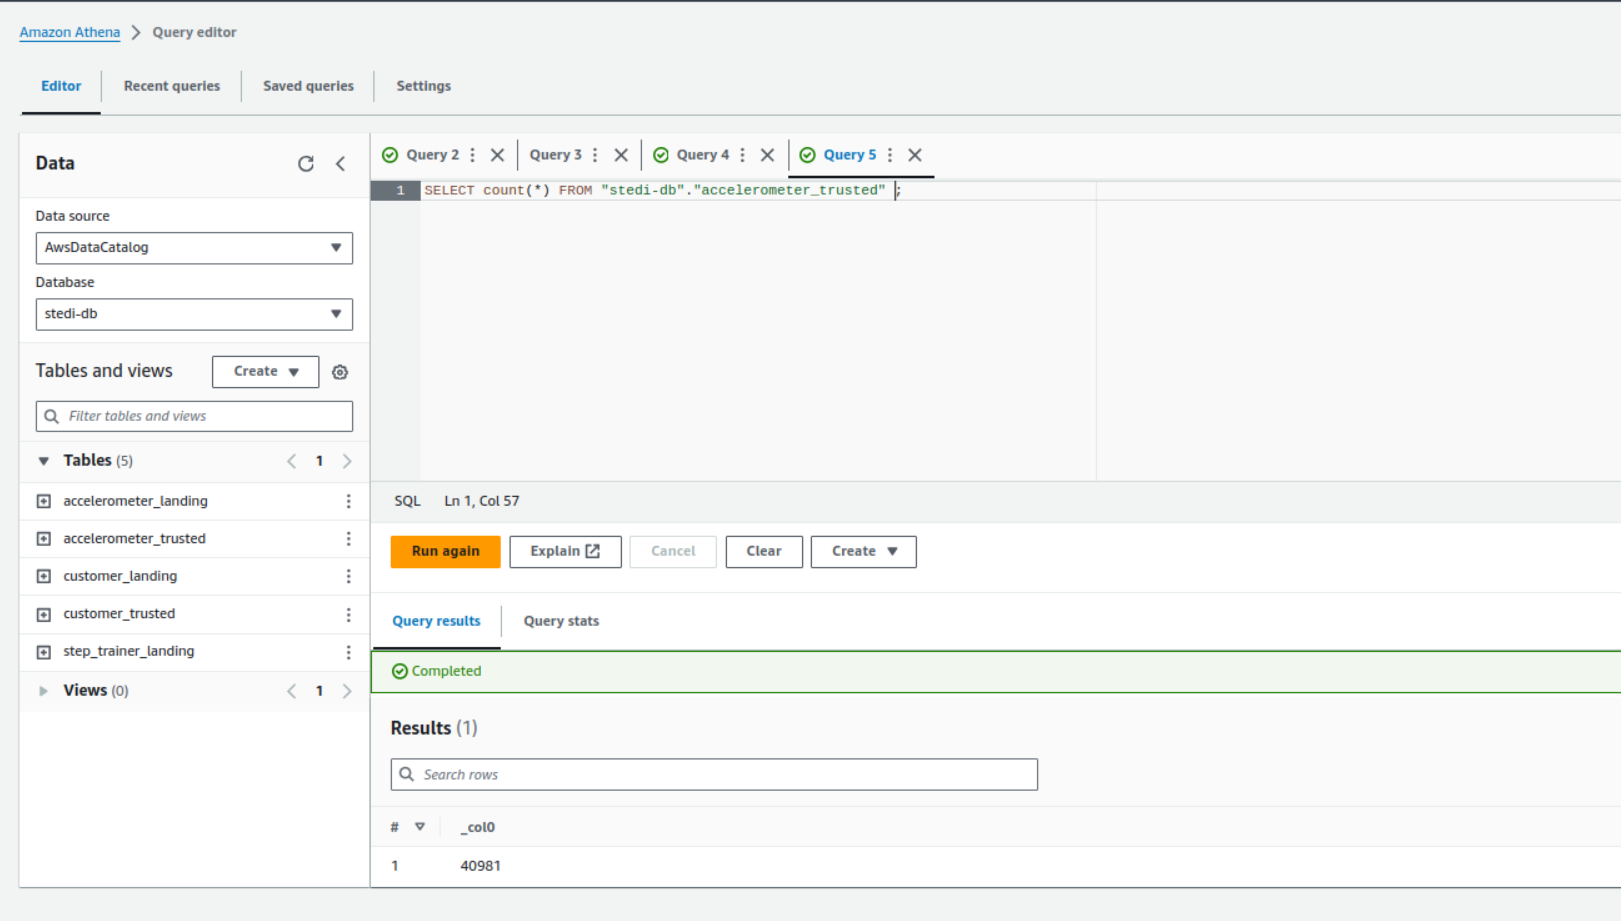
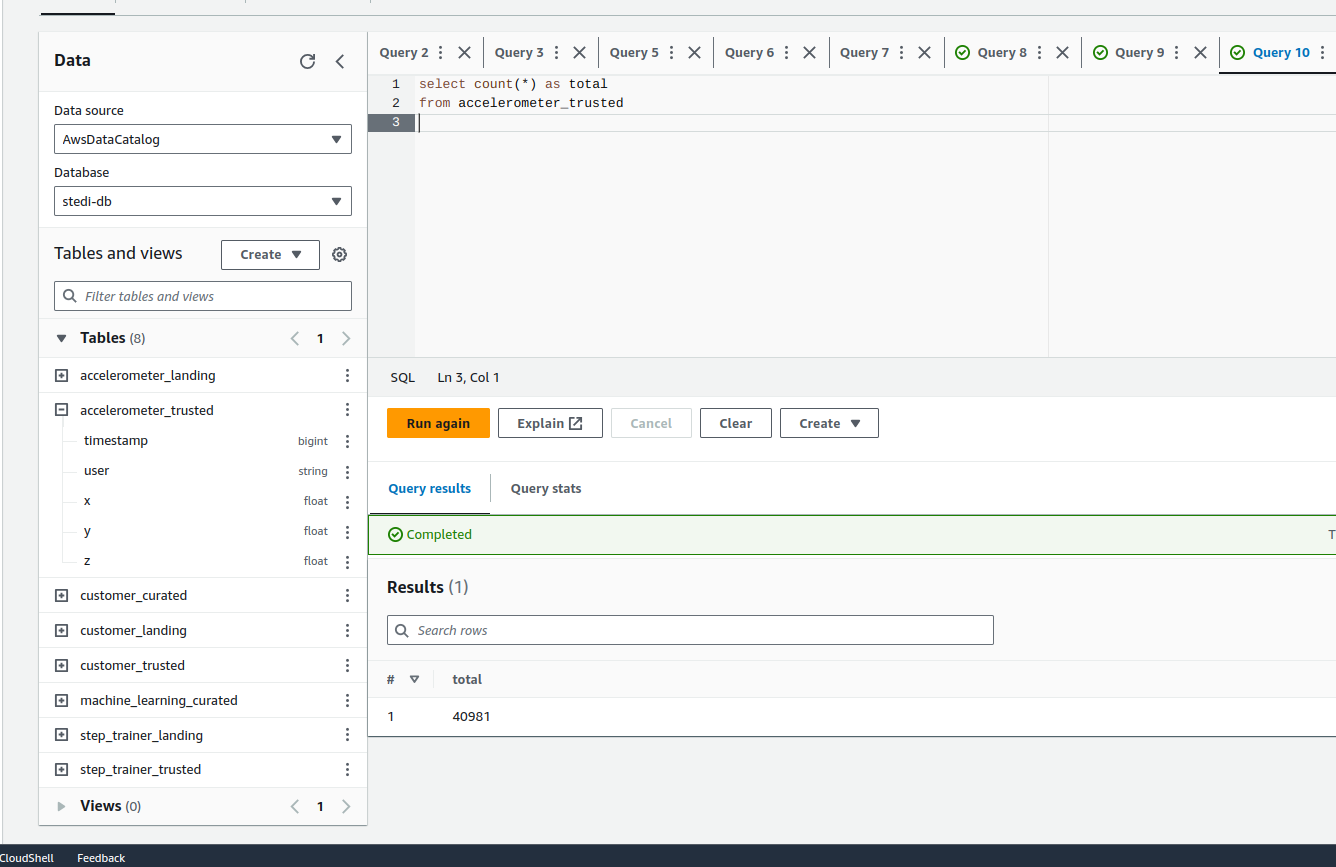
curated zone tasks & screenshots

diff --git a/solution/curated_zone/machine_learning_curated.py b/solution/curated_zone/machine_learning_curated.py
@@ -1,0 +1,63 @@
+import sys
+from awsglue.transforms import *
+from awsglue.utils import getResolvedOptions
+from pyspark.context import SparkContext
+from awsglue.context import GlueContext
+from awsglue.job import Job
+from awsglue import DynamicFrame
+
+
+def sparkSqlQuery(glueContext, query, mapping, transformation_ctx) -> DynamicFrame:
+    for alias, frame in mapping.items():
+        frame.toDF().createOrReplaceTempView(alias)
+    result = spark.sql(query)
+    return DynamicFrame.fromDF(result, glueContext, transformation_ctx)
+
+
+args = getResolvedOptions(sys.argv, ["JOB_NAME"])
+sc = SparkContext()
+glueContext = GlueContext(sc)
+spark = glueContext.spark_session
+job = Job(glueContext)
+job.init(args["JOB_NAME"], args)
+
+# Script generated for node step_trainer_trusted
+step_trainer_trusted_node1721345009711 = glueContext.create_dynamic_frame.from_catalog(
+    database="stedi-db",
+    table_name="step_trainer_trusted",
+    transformation_ctx="step_trainer_trusted_node1721345009711",
+)
+
+# Script generated for node accelerometer_trusted
+accelerometer_trusted_node1721344962556 = glueContext.create_dynamic_frame.from_catalog(
+    database="stedi-db",
+    table_name="accelerometer_trusted",
+    transformation_ctx="accelerometer_trusted_node1721344962556",
+)
+
+# Script generated for node SQL Query
+SqlQuery0 = """
+select step_trainer_trusted.* 
+from step_trainer_trusted
+join accelerometer_trusted on step_trainer_trusted.sensorReadingTime = accelerometer_trusted.timestamp
+
+"""
+SQLQuery_node1721345069432 = sparkSqlQuery(
+    glueContext,
+    query=SqlQuery0,
+    mapping={
+        "accelerometer_trusted": accelerometer_trusted_node1721344962556,
+        "step_trainer_trusted": step_trainer_trusted_node1721345009711,
+    },
+    transformation_ctx="SQLQuery_node1721345069432",
+)
+
+# Script generated for node AWS Glue Data Catalog
+AWSGlueDataCatalog_node1721345369835 = glueContext.write_dynamic_frame.from_catalog(
+    frame=SQLQuery_node1721345069432,
+    database="stedi-db",
+    table_name="machine_learning_curated",
+    transformation_ctx="AWSGlueDataCatalog_node1721345369835",
+)
+
+job.commit()

diff --git a/solution/curated_zone/customer_trusted_to_curated.py b/solution/curated_zone/customer_trusted_to_curated.py
@@ -1,0 +1,62 @@
+import sys
+from awsglue.transforms import *
+from awsglue.utils import getResolvedOptions
+from pyspark.context import SparkContext
+from awsglue.context import GlueContext
+from awsglue.job import Job
+from awsglue import DynamicFrame
+
+
+def sparkSqlQuery(glueContext, query, mapping, transformation_ctx) -> DynamicFrame:
+    for alias, frame in mapping.items():
+        frame.toDF().createOrReplaceTempView(alias)
+    result = spark.sql(query)
+    return DynamicFrame.fromDF(result, glueContext, transformation_ctx)
+
+
+args = getResolvedOptions(sys.argv, ["JOB_NAME"])
+sc = SparkContext()
+glueContext = GlueContext(sc)
+spark = glueContext.spark_session
+job = Job(glueContext)
+job.init(args["JOB_NAME"], args)
+
+# Script generated for node customer_trusted
+customer_trusted_node1721337946203 = glueContext.create_dynamic_frame.from_catalog(
+    database="stedi-db",
+    table_name="customer_trusted",
+    transformation_ctx="customer_trusted_node1721337946203",
+)
+
+# Script generated for node accelerometer_trusted
+accelerometer_trusted_node1721337975384 = glueContext.create_dynamic_frame.from_catalog(
+    database="stedi-db",
+    table_name="accelerometer_trusted",
+    transformation_ctx="accelerometer_trusted_node1721337975384",
+)
+
+# Script generated for node SQL Query
+SqlQuery0 = """
+select distinct customer_trusted.* 
+from customer_trusted 
+join accelerometer_trusted on customer_trusted.email = accelerometer_trusted.user
+"""
+SQLQuery_node1721338056988 = sparkSqlQuery(
+    glueContext,
+    query=SqlQuery0,
+    mapping={
+        "customer_trusted": customer_trusted_node1721337946203,
+        "accelerometer_trusted": accelerometer_trusted_node1721337975384,
+    },
+    transformation_ctx="SQLQuery_node1721338056988",
+)
+
+# Script generated for node customer_curated
+customer_curated_node1721338420832 = glueContext.write_dynamic_frame.from_catalog(
+    frame=SQLQuery_node1721338056988,
+    database="stedi-db",
+    table_name="customer_curated",
+    transformation_ctx="customer_curated_node1721338420832",
+)
+
+job.commit()

diff --git a/solution/landing_zone/accelerometer_landing_to_trusted.py b/solution/landing_zone/accelerometer_landing_to_trusted.py
@@ -59,7 +59,6 @@ DropFields_node1721328115931 = DropFields.apply(
         "sharewithresearchasofdate",
         "sharewithpublicasofdate",
         "sharewithfriendsasofdate",
-        "timestamp",
     ],
     transformation_ctx="DropFields_node1721328115931",
 )
